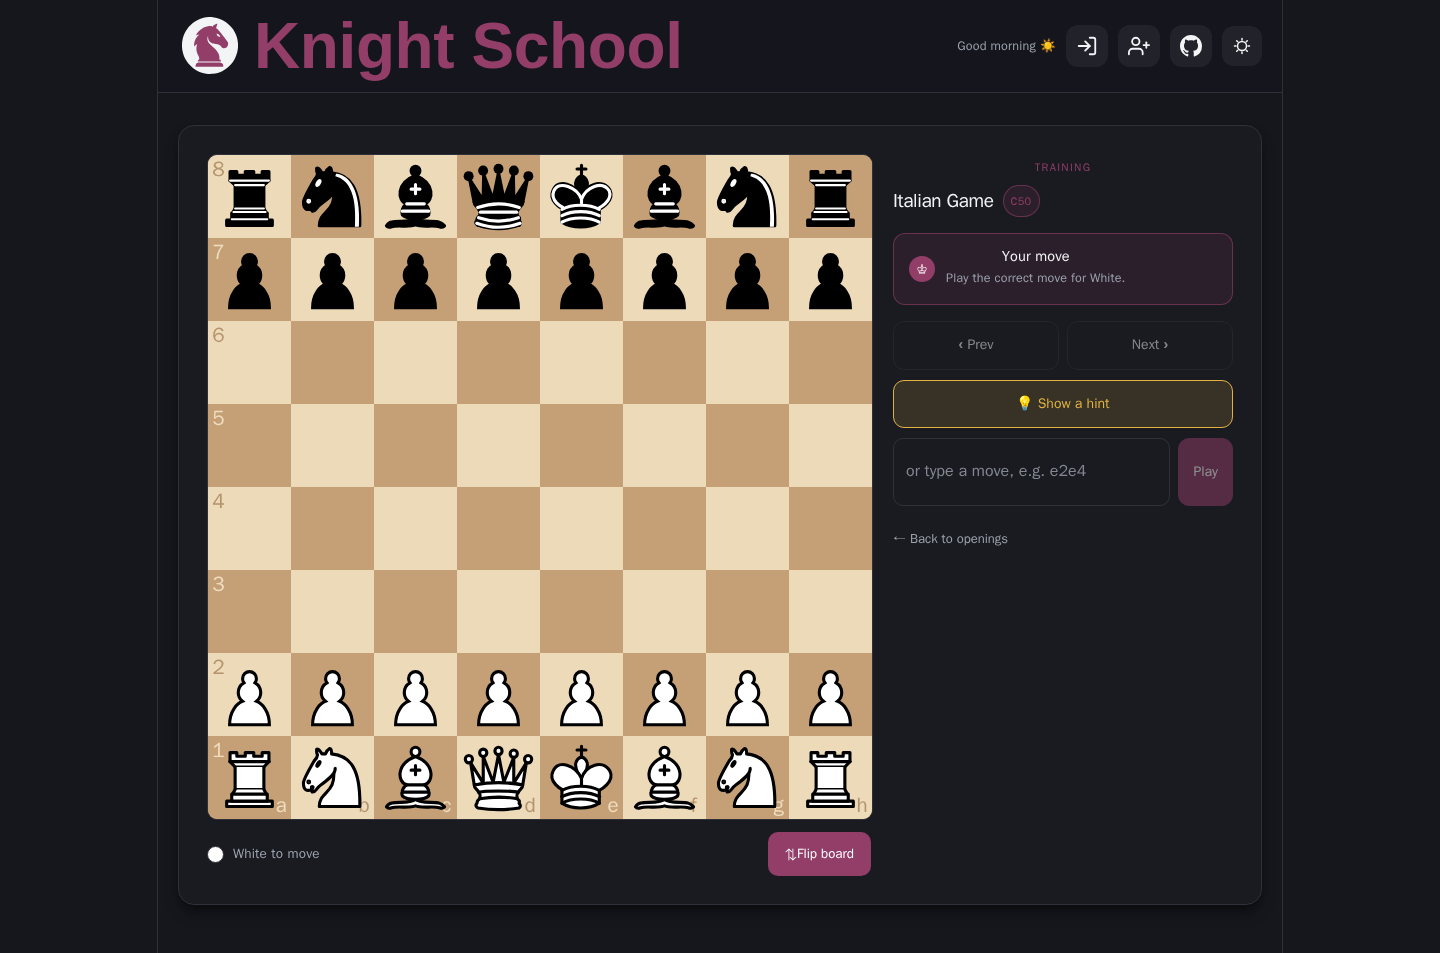
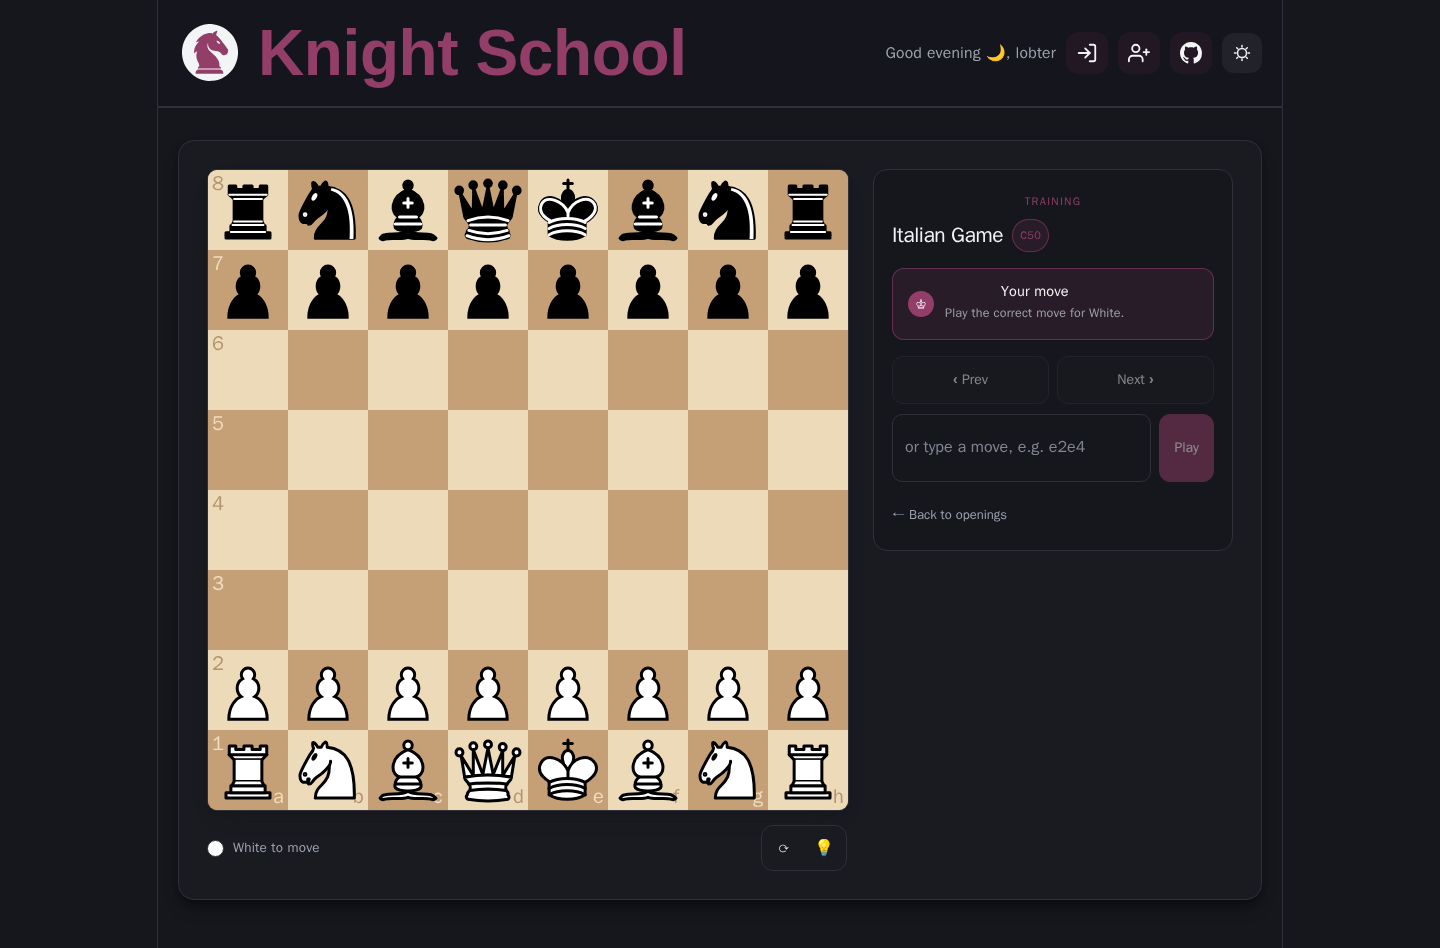
fix(dashboard): left-align weak spots and give it a card outline at all sizes
Weak spots list inherited center-align from #root and only got its
bordered/background treatment on mobile. Also exclude mastered
(100% accuracy) entries from weak-spot ranking, and fill in the
Playwright dashboard fixtures with realistic mock data so the
generated screenshots reflect a populated state.

diff --git a/react/playwright-dashboard.spec.ts b/react/playwright-dashboard.spec.ts
@@ -38,11 +38,14 @@ async function applyTheme(page: Page, theme: (typeof THEMES)[number]) {
 // tests hit the Vite dev server directly (no nginx /api proxy), so that
 // request must be mocked explicitly rather than passing via SPA fallback.
 async function mockAuth(page: Page) {
+  await page.addInitScript(() => {
+    localStorage.setItem("username", "lobter");
+  });
   await page.route("**/api/auth/me", async (route) => {
     await route.fulfill({
       status: 200,
       contentType: "application/json",
-      body: JSON.stringify({ id: 1, username: "demo" }),
+      body: JSON.stringify({ id: 1, username: "lobter" }),
     });
   });
 }
@@ -98,6 +101,77 @@ test.describe("Dashboard screenshots (breakpoints × theme)", () => {
                 epd: null,
                 uci_moves: "d2d4 d7d5 c2c4 e7e6",
                 description: null,
+              },
+            ]),
+          });
+        });
+
+        await page.route("**/api/progress/summary", async (route) => {
+          await route.fulfill({
+            status: 200,
+            contentType: "application/json",
+            body: JSON.stringify({
+              positionsSeen: 15,
+              overallAccuracy: 0.85,
+              mastered: 4,
+              currentStreak: 2,
+              longestStreak: 2,
+            }),
+          });
+        });
+        await page.route("**/api/progress/due", async (route) => {
+          await route.fulfill({
+            status: 200,
+            contentType: "application/json",
+            body: JSON.stringify([
+              {
+                fen: "rnbqkbnr/pp1ppppp/8/2p5/4P3/8/PPPP1PPP/RNBQKBNR w KQkq c6 0 2",
+                correctMoveUci: "g1f3",
+                openingEco: "B20",
+                openingName: "Sicilian Defense",
+                dueAt: "2026-08-14T09:00:00Z",
+              },
+              {
+                fen: "rnbqkbnr/pppp1ppp/4p3/8/4P3/8/PPPP1PPP/RNBQKBNR w KQkq - 0 2",
+                correctMoveUci: "d2d4",
+                openingEco: "C00",
+                openingName: "French Defense",
+                dueAt: "2026-08-14T09:00:00Z",
+              },
+              {
+                fen: "rnbqkbnr/ppp1pppp/8/3p4/2PP4/8/PP2PPPP/RNBQKBNR b KQkq c3 0 2",
+                correctMoveUci: "e7e6",
+                openingEco: "D30",
+                openingName: "Queen's Gambit Declined",
+                dueAt: "2026-08-14T09:00:00Z",
+              },
+              {
+                fen: "r1bqkbnr/pppp1ppp/2n5/1B2p3/4P3/5N2/PPPP1PPP/RNBQK2R b KQkq - 3 3",
+                correctMoveUci: "a7a6",
+                openingEco: "C60",
+                openingName: "Ruy Lopez",
+                dueAt: "2026-08-14T09:00:00Z",
+              },
+            ]),
+          });
+        });
+        await page.route("**/api/progress/weak-spots", async (route) => {
+          await route.fulfill({
+            status: 200,
+            contentType: "application/json",
+            body: JSON.stringify([
+              {
+                openingName: "Nimzo-Larsen Attack: Dutch Variation",
+                attempts: 3,
+                correctCount: 2,
+                incorrectCount: 1,
+              },
+              { openingName: "Review", attempts: 9, correctCount: 7, incorrectCount: 2 },
+              {
+                openingName: "French Defense",
+                attempts: 8,
+                correctCount: 7,
+                incorrectCount: 1,
               },
             ]),
           });

diff --git a/packages/shared-styles/header.css b/packages/shared-styles/header.css
@@ -1,16 +1,17 @@
 /* src/styles/header.css */
 
 .site-header {
-  border-bottom: 1px solid var(--border);
+  border-bottom: 2px solid var(--border);
   background: color-mix(in oklab, var(--bg) 92%, transparent);
   backdrop-filter: blur(8px);
+  box-shadow: 0 1px 3px rgba(35,30,20,0.05);
 }
 
 .site-header-inner {
   width: 1126px;
   max-width: 100%;
   margin: 0 auto;
-  padding: 14px 20px;
+  padding: 18px 20px;
   box-sizing: border-box;
 
   display: flex;
@@ -27,15 +28,17 @@
 .site-header-brand {
   display: flex;
   align-items: center;
-  gap: 12px;
+  gap: 16px;
+  line-height: 1;
 }
 
 .site-header-greeting {
   display: none;
-  font-size: 0.7rem;
+  font-size: 0.875rem;
+  font-weight: 500;
 }
 
-@media (min-width: 1200px) {
+@media (min-width: 1024px) {
   .site-header-greeting {
     display: block;
   }
@@ -71,11 +74,18 @@
   font-weight: 600;
   font-size: 14px;
   text-decoration: none;
-  transition: background 0.2s;
+  transition: background 0.15s, transform 0.15s, box-shadow 0.15s;
 }
 
 .site-header-nav-link:hover {
   background: var(--social-bg);
+  transform: translateY(-1px);
+  box-shadow: 0 2px 4px rgba(35,30,20,0.08);
+}
+
+.site-header-nav-link.active {
+  background: var(--social-bg);
+  border-bottom: 2px solid var(--accent);
 }
 
 .site-header-profile-link {
@@ -86,10 +96,10 @@
   height: 40px;
   border-radius: 12px;
   border: 1px solid transparent;
-  background: var(--social-bg);
+  background: rgba(125, 44, 88, 0.12);
   color: var(--text-h);
   cursor: pointer;
-  transition: border-color 0.2s, transform 0.05s;
+  transition: border-color 0.15s, background 0.15s, transform 0.05s;
   padding: 0;
 }
 
@@ -136,6 +146,7 @@
   letter-spacing: -0.4px;
   font-size: 64px;
   text-decoration: none;
+  line-height: 1.1;
 
   display: block;
 
@@ -164,7 +175,7 @@
   .site-header-inner {
     flex-wrap: wrap;
     gap: 10px 12px;
-    padding: 10px 14px;
+    padding: 12px 14px;
   }
 
   .site-header-brand {
@@ -177,7 +188,7 @@
   }
 
   .site-header-title {
-    font-size: clamp(26px, 8vw, 40px);
+    font-size: clamp(28px, 6vw, 56px);
     letter-spacing: -0.2px;
   }
 
@@ -193,7 +204,12 @@
 
   /* Greeting is nice-to-have; drop it to reclaim width on phones */
   .site-header-greeting {
-    display: none;
+    display: block;
+    font-size: 0.75rem;
+    max-width: 100%;
+    overflow: hidden;
+    text-overflow: ellipsis;
+    white-space: nowrap;
   }
 
   .site-header-link {

diff --git a/react/src/components/Header.tsx b/react/src/components/Header.tsx
@@ -1,6 +1,6 @@
 // frontend/src/components/Header.tsx
 import { useEffect, useState, useMemo } from "react";
-import { Link } from "react-router-dom";
+import { Link, useLocation } from "react-router-dom";
 import { KnightSchoolIcon } from "./KnightSchoolIcon";
 import { ThemeToggle } from "./ThemeToggle";
 import { useNavigate } from "react-router-dom";
@@ -8,6 +8,7 @@ import { logout, AUTH_CHANGED_EVENT } from "../auth";
 
 export default function Header() {
   const navigate = useNavigate();
+  const location = useLocation();
 
   const [isLoggedIn, setIsLoggedIn] = useState(
     () => !!localStorage.getItem("token"),
@@ -66,10 +67,10 @@ export default function Header() {
           <nav className="site-header-nav" aria-label="Primary">
             {isLoggedIn && (
               <>
-                <Link to="/dashboard" className="site-header-nav-link">
+                <Link to="/dashboard" className={`site-header-nav-link${location.pathname.startsWith("/dashboard") ? " active" : ""}`}>
                   Openings
                 </Link>
-                <Link to="/puzzles" className="site-header-nav-link">
+                <Link to="/puzzles" className={`site-header-nav-link${location.pathname.startsWith("/puzzles") ? " active" : ""}`}>
                   Puzzles
                 </Link>
               </>

diff --git a/packages/shared-styles/dashboard.css b/packages/shared-styles/dashboard.css
@@ -7,6 +7,7 @@
   padding-bottom: 16px;
   margin-bottom: 16px;
   border-bottom: 1px solid var(--border);
+  text-align: left;
 }
 .progress-stat {
   display: flex;
@@ -62,6 +63,10 @@
   display: flex;
   flex-direction: column;
   gap: 4px;
+  padding: 10px 14px;
+  border-radius: 12px;
+  background: var(--code-bg);
+  border: 1px solid var(--border);
 }
 .progress-weak-spots ul {
   margin: 0;
@@ -562,9 +567,6 @@
   .progress-weak-spots {
     grid-column: 1 / -1;
     padding: 12px 14px;
-    border-radius: 12px;
-    background: var(--code-bg);
-    border: 1px solid var(--border);
     gap: 8px;
   }
   .progress-weak-spots .progress-stat-label {

diff --git a/backend/app/modules/progress/service.py b/backend/app/modules/progress/service.py
@@ -200,5 +200,6 @@ def get_weak_spots(db: Session, user_id: int, limit: int = 20) -> list[WeakSpot]
         group.incorrect_count += r.incorrect_count
 
     spots = [groups[key] for key in order]
+    spots = [s for s in spots if s.correct_count < s.attempts]
     spots.sort(key=lambda s: ((s.correct_count / s.attempts), -s.attempts))
     return spots[:limit]
